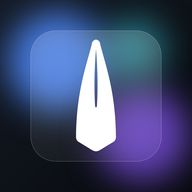
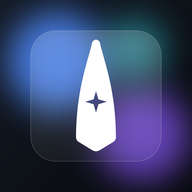
아이콘: 가운데 홈 대신 중앙에 반짝이 문양
Claude-Session: https://claude.ai/code/session_013vYkAwcZjb4s3cxt5sEN9t

Changed region(s): [[0.4375, 0.25, 0.5625, 0.5938]]

diff --git a/sw.js b/sw.js
@@ -1,5 +1,5 @@
 /* 홈 화면 앱: network first (always the newest build when online), cached copy when offline */
-const C='pixel-city-v8',A=['./','./index.html','./manifest.webmanifest','./icons/icon-192.png','./icons/icon-512.png'];
+const C='pixel-city-v9',A=['./','./index.html','./manifest.webmanifest','./icons/icon-192.png','./icons/icon-512.png'];
 self.addEventListener('install',e=>{self.skipWaiting();e.waitUntil(caches.open(C).then(c=>c.addAll(A)));});
 self.addEventListener('activate',e=>{e.waitUntil(caches.keys().then(k=>Promise.all(k.filter(x=>x!==C).map(x=>caches.delete(x)))).then(()=>self.clients.claim()));});
 self.addEventListener('fetch',e=>{const r=e.request;if(r.method!=='GET'||new URL(r.url).origin!==location.origin)return;
